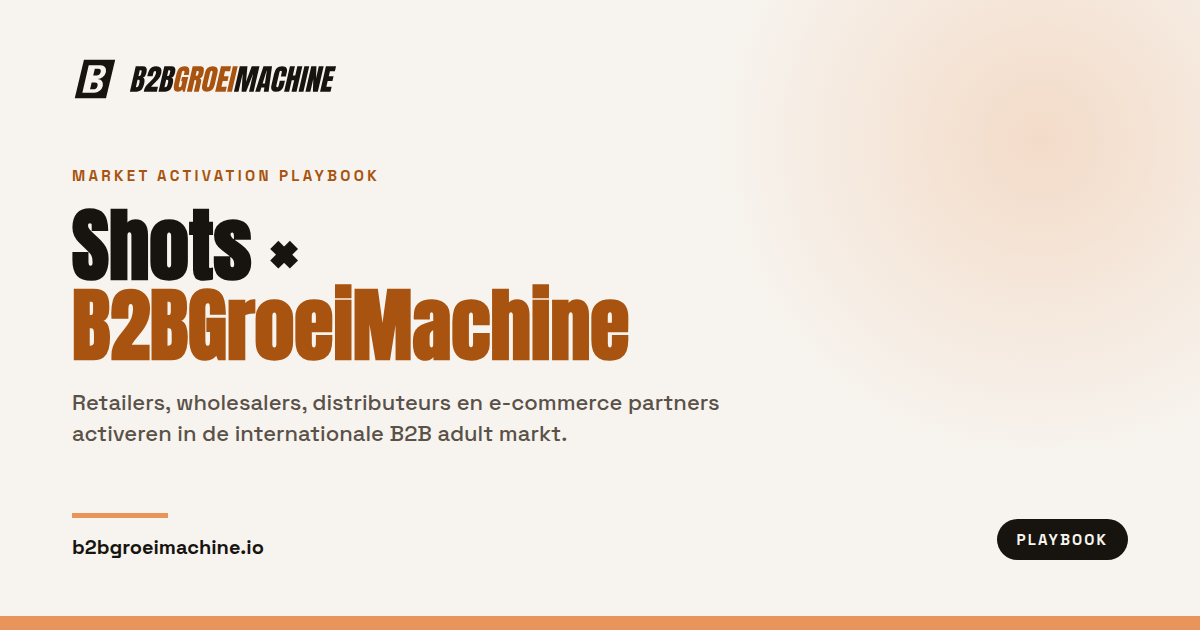
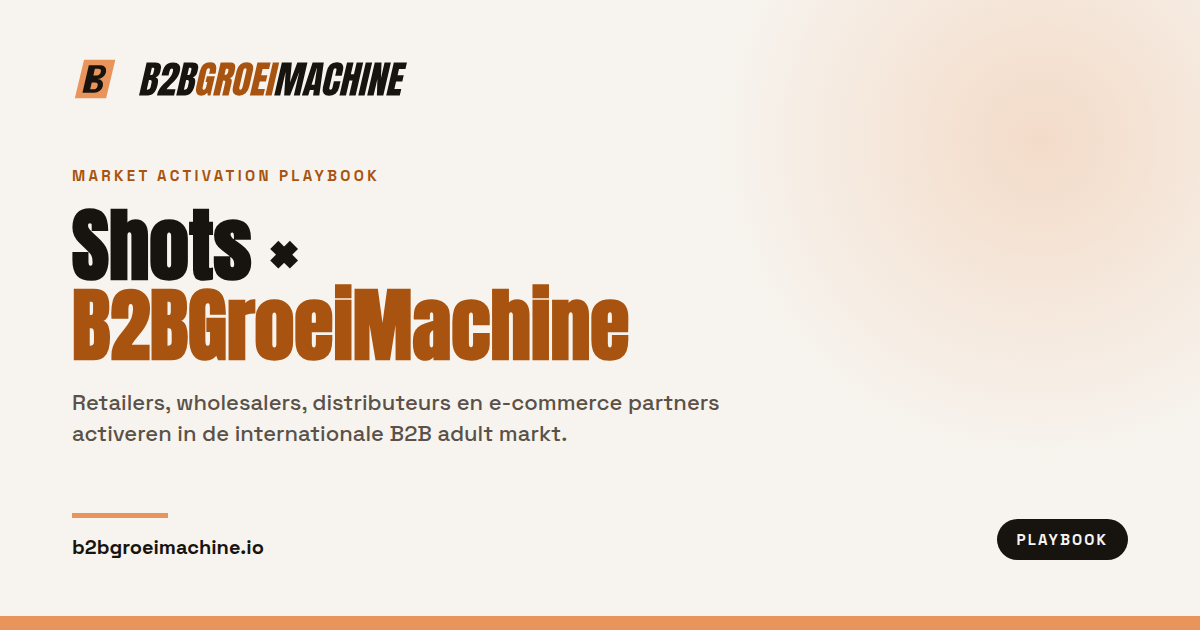
Merk-verhoudingen recht, en het merk als engine in het diagram
Op het presentatiebord stond het logo groot en geïsoleerd; in de navigatie op
tweeëntwintig pixels viel het om. Het blok was met honderd tegen zesenvijftig
eenheden bijna twee keer zo hoog als de kapitalen, en op de lichte balk was
het de inkt-variant, dus een zwarte baksteen naast de naam.

Nu staan de kapitalen op 72,7 van de honderd en blijft het vlak in beide
tonen merkoranje. Daarmee leest het als één merk in plaats van een blok met
een naam ernaast. Het onderscheid tussen licht en donker zit alleen nog in de
kleur van de naam.

Om te voorkomen dat dit bij een volgende ronde weer uit de pas loopt, staan de
vormen en verhoudingen nu in src/lib/merk.ts. Zowel de React-component als
scripts/build-merk.ts rekent daarmee, dus het logo in de site en de bestanden
in public/merk/ kunnen niet meer verschillen. Draaien met `npm run merk`.

Verder:

- de mono-variant was alleen de B; juist het schuine vlak viel weg. Het vlak
  en de letter zitten nu in één pad met evenodd, dus de B is een gat en het
  silhouet is gelijk aan de kleurversie. Voor stempel en borduur.
- het ENGINE-blokje in het hero-diagram had een generiek raster van vierkantjes
  en draagt nu het beeldmerk: de engine is het merk.
- de OG-kaarten zijn opnieuw gemaakt met de nieuwe verhouding.

Claude-Session: https://claude.ai/code/session_01UsrxZE9ri9eSeSHsNeCyCf

Changed region(s): [[0.0617, 0.0905, 0.3392, 0.181]]

diff --git a/src/components/Logo.tsx b/src/components/Logo.tsx
@@ -1,48 +1,27 @@
 /**
- * Het merk van B2B GroeiMachine.
+ * Het merk van B2B GroeiMachine als React-component.
  *
- * Beeldmerk "Het Blok": een schuin vlak met een B die met de hand is getekend,
- * geen letter uit een lettertype. Het woordmerk is Anton, omgezet naar
- * vectorvormen en onder dezelfde dertien graden gezet. Beide staan hier als
- * pad, zodat het logo nergens van een geïnstalleerd lettertype afhangt en op
- * elk formaat scherp blijft.
- *
- * De losse bestanden voor extern gebruik staan in `public/merk/`.
+ * De vormen en verhoudingen staan in `@/lib/merk`; dat is de enige bron, zodat
+ * dit logo en de losse bestanden in `public/merk/` gelijk blijven. Alles is
+ * pad, dus het merk hangt nergens van een geïnstalleerd lettertype af.
  */
-
-/** Het schuine vlak. */
-const BLOK = "M26,8 L94,8 L74,92 L6,92 Z";
-/** Hetzelfde vlak, maar aflopend. Met marge valt het merk weg op faviconformaat. */
-const BLOK_VOL = "M22,-2 L104,-2 L78,102 L-4,102 Z";
-/** De B: twee gelijke bogen op één stam, counters als halve stadions. */
-const LETTER =
-  "M32,20 H58 A15,15 0 0 1 58,50 A15,15 0 0 1 58,80 H32 Z " +
-  "M47,27.5 H54 A7.5,7.5 0 0 1 54,42.5 H47 Z " +
-  "M47,57.5 H54 A7.5,7.5 0 0 1 54,72.5 H47 Z";
-/** Optisch gecentreerd, niet wiskundig: de bogen rechts wegen zwaarder dan de stam. */
-const LETTER_PLAATSING = "skewX(-13) translate(9,0)";
-
-/** Woordmerk in drie delen, zodat GROEI zijn eigen kleur houdt. */
-const WOORD = {
-  b2b: "M27.10 0L3.81 0L23.65-85.94L46.94-85.94Q56.31-85.94 59.53-81.37Q62.75-76.81 60.33-66.31L59.46-62.55Q58.06-56.49 55.02-52.73Q51.98-48.97 47.27-47.80Q52.74-46.34 53.47-40.94Q54.20-35.55 52.41-27.78Q50.48-19.43 47.48-13.18Q44.47-6.93 39.57-3.47Q34.67 0 27.10 0M37.38-72.66L32.97-53.56L36.49-53.56Q38.88-53.56 39.99-55.42Q41.10-57.28 41.70-59.86L43.70-68.51Q44.65-72.66 40.99-72.66L37.38-72.66M25.81-15.14Q32.50-15.14 33.96-21.48L36.44-32.23Q37.29-35.89 36.68-38.01Q36.07-40.14 33.05-40.14L29.87-40.14L24.12-15.23Q25.17-15.14 25.81-15.14M95.46 0L50.88 0L51.83-4.10Q53.30-10.50 56.46-15.60Q59.61-20.70 63.75-25.07Q67.88-29.44 72.32-33.64Q76.63-37.74 80.68-42.07Q84.73-46.39 87.83-51.44Q90.92-56.49 92.38-62.79Q93.08-65.82 92.67-67.99Q92.27-70.17 89.44-70.17Q85.14-70.17 83.37-62.50L80.95-52L62.88-52Q63.09-53.12 63.35-54.54Q63.60-55.96 63.91-57.28Q66.05-66.55 69.50-73.02Q72.94-79.49 78.68-82.89Q84.42-86.28 93.41-86.28Q104.10-86.28 108.64-80.27Q113.19-74.27 110.62-63.13Q108.87-55.57 105.61-49.88Q102.34-44.19 98.04-39.53Q93.74-34.86 88.81-30.22Q85.32-26.95 81.97-23.54Q78.62-20.12 75.76-16.21L99.20-16.21L95.46 0M124.37 0L101.07 0L120.91-85.94L144.21-85.94Q153.58-85.94 156.80-81.37Q160.02-76.81 157.59-66.31L156.73-62.55Q155.33-56.49 152.29-52.73Q149.25-48.97 144.53-47.80Q150-46.34 150.74-40.94Q151.47-35.55 149.68-27.78Q147.75-19.43 144.74-13.18Q141.74-6.93 136.84-3.47Q131.93 0 124.37 0M134.65-72.66L130.24-53.56L133.75-53.56Q136.15-53.56 137.26-55.42Q138.37-57.28 138.97-59.86L140.96-68.51Q141.92-72.66 138.26-72.66L134.65-72.66M123.07-15.14Q129.76-15.14 131.23-21.48L133.71-32.23Q134.56-35.89 133.95-38.01Q133.34-40.14 130.31-40.14L127.14-40.14L121.39-15.23Q122.44-15.14 123.07-15.14",
-  groei: "M166.47 0.78Q148.06 0.78 154.15-25.59L162.71-62.65Q168.26-86.72 189.36-86.72Q198.05-86.72 201.88-83.23Q205.71-79.74 205.93-73.05Q206.14-66.36 203.92-56.74L187.12-56.74L188.88-64.36Q189.52-67.14 189.20-69.02Q188.88-70.90 186.49-70.90Q183.51-70.90 182.09-68.90Q180.68-66.89 180.13-64.50L170.51-22.85Q169.71-19.38 170.11-17.21Q170.51-15.04 173.15-15.04Q175.88-15.04 177.29-17.21Q178.69-19.38 179.52-22.95L182.35-35.21L177.76-35.21L181.18-50.05L202.18-50.05L190.63 0L183.74 0L182.48-7.23Q176.14 0.78 166.47 0.78M214.79 0L197.41 0L217.25-85.94L243.62-85.94Q250.21-85.94 252.89-82.93Q255.56-79.93 255.46-74.54Q255.37-69.14 253.69-61.87Q252.06-54.83 249.31-50.63Q246.56-46.44 241.26-44.82Q245.12-43.99 246.02-40.80Q246.91-37.60 245.74-32.52L238.23 0L221.29 0L229.06-33.64Q229.92-37.40 228.59-38.31Q227.26-39.21 223.85-39.21L214.79 0M231.06-70.02L227.38-54.10L231.53-54.10Q235.10-54.10 236.89-61.87Q238.05-66.89 237.63-68.46Q237.21-70.02 235.06-70.02L231.06-70.02M265.40 0.78Q255.09 0.78 251.09-5.44Q247.08-11.67 249.80-23.44L259.22-64.26Q261.77-75.29 268.48-81.01Q275.20-86.72 285.60-86.72Q296-86.72 300.07-81.01Q304.15-75.29 301.60-64.26L292.18-23.44Q289.46-11.67 282.58-5.44Q275.70 0.78 265.40 0.78M269.19-15.04Q273.10-15.04 274.85-22.61L284.53-64.55Q286-70.90 282.19-70.90Q277.89-70.90 276.39-64.40L266.72-22.51Q265.80-18.51 266.37-16.77Q266.95-15.04 269.19-15.04M329.20 0L293.70 0L313.54-85.94L347.92-85.94L344.08-69.34L327.19-69.34L323.32-52.59L339.53-52.59L335.80-36.43L319.59-36.43L315.05-16.75L333.07-16.75L329.20 0M350.68 0L334.08 0L353.92-85.94L370.52-85.94",
-  machine: "M373.05 0L357.52 0L377.36-85.94L403.53-85.94L398.66-33.54L417.94-85.94L444.35-85.94L424.51 0L408.79 0L423.08-61.91L398.93 0L383.50 0L387.34-61.91L373.05 0M446.48 0L429.79 0L457.93-85.94L487.08-85.94L475.39 0L459.13 0L461.11-13.87L450.76-13.87L446.48 0M468.51-71.29L455.15-27.59L462.96-27.59L469.29-71.29L468.51-71.29M500.50 0.78Q491.18 0.78 486.83-5.03Q482.48-10.84 484.90-21.29L494.05-60.94Q496.93-73.44 503.42-80.08Q509.91-86.72 521.09-86.72Q527.20-86.72 531.44-84.47Q535.68-82.23 537.39-77.76Q539.09-73.29 537.52-66.50L534.09-51.66L517-51.66L519.94-64.36Q520.83-68.21 520.16-69.56Q519.49-70.90 517.44-70.90Q515.05-70.90 513.82-69.17Q512.59-67.43 511.92-64.55L501.99-21.53Q501.17-17.97 501.88-16.50Q502.59-15.04 504.55-15.04Q506.74-15.04 508.06-16.85Q509.38-18.65 510.05-21.53L513.62-37.01L530.91-37.01L527.15-20.75Q524.54-9.42 517.65-4.32Q510.76 0.78 500.50 0.78M545.17 0L528.08 0L547.92-85.94L565.01-85.94L557.92-55.22L566.02-55.22L573.11-85.94L590.20-85.94L570.36 0L553.27 0L562.27-38.96L554.16-38.96L545.17 0M593.80 0L577.20 0L597.04-85.94L613.64-85.94L593.80 0M617.43 0L600.63 0L620.48-85.94L638.15-85.94L636.56-44.78L646.06-85.94L662.66-85.94L642.82 0L626.03 0L627.35-42.97L617.43 0M685.94 0L650.44 0L670.28-85.94L704.65-85.94L700.82-69.34L683.93-69.34L680.06-52.59L696.27-52.59L692.54-36.43L676.33-36.43L671.79-16.75L689.80-16.75",
-};
-/** Kader van het woordmerk, gemeten op de vormen hierboven. */
-const WOORD_VAK = { x0: 3.8, x1: 704.6, y0: -86.7, y1: 0.8 };
-
-const KLEUR = {
-  donker: { vlak: "#E8945A", letter: "#17140F", woord: "#F7F4EF", accent: "#E8945A" },
-  licht: { vlak: "#17140F", letter: "#F7F4EF", woord: "#17140F", accent: "#A85410" },
-} as const;
-
-type Toon = keyof typeof KLEUR;
+import {
+  BLOK,
+  BLOK_VOL,
+  LETTER,
+  LETTER_PLAATSING,
+  TONEN,
+  WOORD,
+  lockupMaten,
+  type Toon,
+} from "@/lib/merk";
 
 /**
  * Alleen het beeldmerk.
  *
- * `aflopend` laat het vlak tot de rand lopen; gebruik dat zodra het merk onder
- * de veertig pixels komt, anders verdwijnt het in zijn eigen witruimte.
+ * `aflopend` laat het vlak tot buiten het kader lopen; gebruik dat zodra het
+ * merk onder de veertig pixels komt, anders verdwijnt het in zijn eigen
+ * witruimte.
  */
 export function Merk({
   toon = "donker",
@@ -53,7 +32,7 @@ export function Merk({
   aflopend?: boolean;
   className?: string;
 }) {
-  const k = KLEUR[toon];
+  const k = TONEN[toon];
   return (
     <svg viewBox="0 0 100 100" className={className} role="img" aria-label="B2B GroeiMachine">
       <path d={aflopend ? BLOK_VOL : BLOK} fill={k.vlak} />
@@ -64,18 +43,16 @@ export function Merk({
   );
 }
 
-/** Het beeldmerk met de naam ernaast. De hoogte volgt uit de `className`. */
+/**
+ * Het beeldmerk met de naam ernaast. De hoogte volgt uit de `className`; op
+ * 22 pixels hoog zijn de kapitalen 16, wat in een navigatiebalk prettig leest.
+ */
 export function Logo({ toon = "donker", className }: { toon?: Toon; className?: string }) {
-  const k = KLEUR[toon];
-  const kapH = WOORD_VAK.y1 - WOORD_VAK.y0;
-  const s = 56 / kapH;
-  const gat = 26;
-  const wx = 100 + gat - WOORD_VAK.x0 * s;
-  const wy = 50 + 28 - WOORD_VAK.y1 * s;
-  const breedte = 100 + gat + (WOORD_VAK.x1 - WOORD_VAK.x0) * s;
+  const k = TONEN[toon];
+  const m = lockupMaten();
   return (
     <svg
-      viewBox={`0 0 ${breedte.toFixed(1)} 100`}
+      viewBox={`0 0 ${m.breedte.toFixed(1)} 100`}
       className={className}
       role="img"
       aria-label="B2B GroeiMachine"
@@ -84,7 +61,7 @@ export function Logo({ toon = "donker", className }: { toon?: Toon; className?: 
       <g transform={LETTER_PLAATSING}>
         <path d={LETTER} fill={k.letter} fillRule="evenodd" />
       </g>
-      <g transform={`translate(${wx.toFixed(2)},${wy.toFixed(2)}) scale(${s.toFixed(4)})`}>
+      <g transform={`translate(${m.x.toFixed(2)},${m.y.toFixed(2)}) scale(${m.schaal.toFixed(4)})`}>
         <path d={WOORD.b2b} fill={k.woord} />
         <path d={WOORD.groei} fill={k.accent} />
         <path d={WOORD.machine} fill={k.woord} />

diff --git a/src/lib/merk.ts b/src/lib/merk.ts
@@ -1,0 +1,71 @@
+/**
+ * De geometrie van het merk, als enige bron.
+ *
+ * Zowel `src/components/Logo.tsx` als `scripts/build-merk.ts` rekent hiermee,
+ * zodat het logo in de app en de losse bestanden in `public/merk/` niet uit
+ * elkaar kunnen lopen. Verander je hier iets, draai dan `npm run merk`.
+ *
+ * Beeldmerk "Het Blok": een schuin vlak met een B die met de hand is getekend,
+ * geen letter uit een lettertype. Het woordmerk is Anton, omgezet naar
+ * vectorvormen en onder dezelfde dertien graden gezet. Beide staan hier als
+ * pad, zodat het merk nergens van een geïnstalleerd lettertype afhangt.
+ */
+
+/** Het schuine vlak. */
+export const BLOK = "M26,8 L94,8 L74,92 L6,92 Z";
+/** Hetzelfde vlak, maar aflopend. Met marge valt het merk weg op faviconformaat. */
+export const BLOK_VOL = "M22,-2 L104,-2 L78,102 L-4,102 Z";
+/** De B: twee gelijke bogen op één stam, counters als halve stadions. */
+export const LETTER =
+  "M32,20 H58 A15,15 0 0 1 58,50 A15,15 0 0 1 58,80 H32 Z " +
+  "M47,27.5 H54 A7.5,7.5 0 0 1 54,42.5 H47 Z " +
+  "M47,57.5 H54 A7.5,7.5 0 0 1 54,72.5 H47 Z";
+/** Optisch gecentreerd, niet wiskundig: de bogen rechts wegen zwaarder dan de stam. */
+export const LETTER_PLAATSING = "skewX(-13) translate(9,0)";
+
+/** Woordmerk in drie delen, zodat GROEI zijn eigen kleur houdt. */
+export const WOORD = {
+  b2b:
+    "M27.1 0L3.8 0L23.7-85.9L46.9-85.9Q56.3-85.9 59.5-81.4Q62.8-76.8 60.3-66.3L59.5-62.5Q58.1-56.5 55-52.7Q52-49 47.3-47.8Q52.7-46.3 53.5-40.9Q54.2-35.5 52.4-27.8Q50.5-19.4 47.5-13.2Q44.5-6.9 39.6-3.5Q34.7 0 27.1 0M37.4-72.7L33-53.6L36.5-53.6Q38.9-53.6 40-55.4Q41.1-57.3 41.7-59.9L43.7-68.5Q44.7-72.7 41-72.7L37.4-72.7M25.8-15.1Q32.5-15.1 34-21.5L36.4-32.2Q37.3-35.9 36.7-38Q36.1-40.1 33.1-40.1L29.9-40.1L24.1-15.2Q25.2-15.1 25.8-15.1M95.5 0L50.9 0L51.8-4.1Q53.3-10.5 56.5-15.6Q59.6-20.7 63.8-25.1Q67.9-29.4 72.3-33.6Q76.6-37.7 80.7-42.1Q84.7-46.4 87.8-51.4Q90.9-56.5 92.4-62.8Q93.1-65.8 92.7-68Q92.3-70.2 89.4-70.2Q85.1-70.2 83.4-62.5L81-52L62.9-52Q63.1-53.1 63.4-54.5Q63.6-56 63.9-57.3Q66.1-66.5 69.5-73Q72.9-79.5 78.7-82.9Q84.4-86.3 93.4-86.3Q104.1-86.3 108.6-80.3Q113.2-74.3 110.6-63.1Q108.9-55.6 105.6-49.9Q102.3-44.2 98-39.5Q93.7-34.9 88.8-30.2Q85.3-26.9 82-23.5Q78.6-20.1 75.8-16.2L99.2-16.2L95.5 0M124.4 0L101.1 0L120.9-85.9L144.2-85.9Q153.6-85.9 156.8-81.4Q160-76.8 157.6-66.3L156.7-62.5Q155.3-56.5 152.3-52.7Q149.3-49 144.5-47.8Q150-46.3 150.7-40.9Q151.5-35.5 149.7-27.8Q147.8-19.4 144.7-13.2Q141.7-6.9 136.8-3.5Q131.9 0 124.4 0M134.7-72.7L130.2-53.6L133.8-53.6Q136.2-53.6 137.3-55.4Q138.4-57.3 139-59.9L141-68.5Q141.9-72.7 138.3-72.7L134.7-72.7M123.1-15.1Q129.8-15.1 131.2-21.5L133.7-32.2Q134.6-35.9 134-38Q133.3-40.1 130.3-40.1L127.1-40.1L121.4-15.2Q122.4-15.1 123.1-15.1",
+  groei:
+    "M166.5 0.8Q148.1 0.8 154.2-25.6L162.7-62.6Q168.3-86.7 189.4-86.7Q198.1-86.7 201.9-83.2Q205.7-79.7 205.9-73Q206.1-66.4 203.9-56.7L187.1-56.7L188.9-64.4Q189.5-67.1 189.2-69Q188.9-70.9 186.5-70.9Q183.5-70.9 182.1-68.9Q180.7-66.9 180.1-64.5L170.5-22.8Q169.7-19.4 170.1-17.2Q170.5-15 173.2-15Q175.9-15 177.3-17.2Q178.7-19.4 179.5-22.9L182.4-35.2L177.8-35.2L181.2-50L202.2-50L190.6 0L183.7 0L182.5-7.2Q176.1 0.8 166.5 0.8M214.8 0L197.4 0L217.3-85.9L243.6-85.9Q250.2-85.9 252.9-82.9Q255.6-79.9 255.5-74.5Q255.4-69.1 253.7-61.9Q252.1-54.8 249.3-50.6Q246.6-46.4 241.3-44.8Q245.1-44 246-40.8Q246.9-37.6 245.7-32.5L238.2 0L221.3 0L229.1-33.6Q229.9-37.4 228.6-38.3Q227.3-39.2 223.9-39.2L214.8 0M231.1-70L227.4-54.1L231.5-54.1Q235.1-54.1 236.9-61.9Q238.1-66.9 237.6-68.5Q237.2-70 235.1-70L231.1-70M265.4 0.8Q255.1 0.8 251.1-5.4Q247.1-11.7 249.8-23.4L259.2-64.3Q261.8-75.3 268.5-81Q275.2-86.7 285.6-86.7Q296-86.7 300.1-81Q304.2-75.3 301.6-64.3L292.2-23.4Q289.5-11.7 282.6-5.4Q275.7 0.8 265.4 0.8M269.2-15Q273.1-15 274.9-22.6L284.5-64.5Q286-70.9 282.2-70.9Q277.9-70.9 276.4-64.4L266.7-22.5Q265.8-18.5 266.4-16.8Q267-15 269.2-15M329.2 0L293.7 0L313.5-85.9L347.9-85.9L344.1-69.3L327.2-69.3L323.3-52.6L339.5-52.6L335.8-36.4L319.6-36.4L315.1-16.7L333.1-16.7L329.2 0M350.7 0L334.1 0L353.9-85.9L370.5-85.9",
+  machine:
+    "M373.1 0L357.5 0L377.4-85.9L403.5-85.9L398.7-33.5L417.9-85.9L444.4-85.9L424.5 0L408.8 0L423.1-61.9L398.9 0L383.5 0L387.3-61.9L373.1 0M446.5 0L429.8 0L457.9-85.9L487.1-85.9L475.4 0L459.1 0L461.1-13.9L450.8-13.9L446.5 0M468.5-71.3L455.2-27.6L463-27.6L469.3-71.3L468.5-71.3M500.5 0.8Q491.2 0.8 486.8-5Q482.5-10.8 484.9-21.3L494.1-60.9Q496.9-73.4 503.4-80.1Q509.9-86.7 521.1-86.7Q527.2-86.7 531.4-84.5Q535.7-82.2 537.4-77.8Q539.1-73.3 537.5-66.5L534.1-51.7L517-51.7L519.9-64.4Q520.8-68.2 520.2-69.6Q519.5-70.9 517.4-70.9Q515.1-70.9 513.8-69.2Q512.6-67.4 511.9-64.5L502-21.5Q501.2-18 501.9-16.5Q502.6-15 504.6-15Q506.7-15 508.1-16.8Q509.4-18.6 510.1-21.5L513.6-37L530.9-37L527.2-20.7Q524.5-9.4 517.7-4.3Q510.8 0.8 500.5 0.8M545.2 0L528.1 0L547.9-85.9L565-85.9L557.9-55.2L566-55.2L573.1-85.9L590.2-85.9L570.4 0L553.3 0L562.3-39L554.2-39L545.2 0M593.8 0L577.2 0L597-85.9L613.6-85.9L593.8 0M617.4 0L600.6 0L620.5-85.9L638.2-85.9L636.6-44.8L646.1-85.9L662.7-85.9L642.8 0L626 0L627.4-43L617.4 0M685.9 0L650.4 0L670.3-85.9L704.7-85.9L700.8-69.3L683.9-69.3L680.1-52.6L696.3-52.6L692.5-36.4L676.3-36.4L671.8-16.7L689.8-16.7",
+};
+
+/** Kader van het woordmerk, gemeten op de vormen in `WOORD`. */
+export const WOORD_VAK = { x0: 3.8, x1: 704.6, y0: -86.7, y1: 0.8 };
+
+/**
+ * Verhouding binnen de lockup.
+ *
+ * De kapitalen zijn bijna net zo hoog als het vlak. Eerder stonden ze op 56
+ * van de 100 en dan torent het blok boven de naam uit: in een navigatiebalk
+ * van rond de twintig pixels leest dat als een blok mét een naam ernaast in
+ * plaats van als één merk.
+ */
+export const KAPITAALHOOGTE = 72.7;
+export const TUSSENRUIMTE = 45.5;
+
+/**
+ * Kleuren per ondergrond. Het vlak blijft in beide gevallen merkoranje; een
+ * inktzwart blok werd op een lichte balk een baksteen naast de naam. Voor druk
+ * in één kleur staat er een aparte variant in `public/merk/`.
+ */
+export const TONEN = {
+  donker: { vlak: "#E8945A", letter: "#17140F", woord: "#F7F4EF", accent: "#E8945A" },
+  licht: { vlak: "#E8945A", letter: "#17140F", woord: "#17140F", accent: "#A85410" },
+} as const;
+
+export type Toon = keyof typeof TONEN;
+
+/** Plaatsing en schaal van het woordmerk naast het beeldmerk. */
+export function lockupMaten() {
+  const schaal = KAPITAALHOOGTE / (WOORD_VAK.y1 - WOORD_VAK.y0);
+  return {
+    schaal,
+    x: 100 + TUSSENRUIMTE - WOORD_VAK.x0 * schaal,
+    y: 50 + KAPITAALHOOGTE / 2 - WOORD_VAK.y1 * schaal,
+    breedte: 100 + TUSSENRUIMTE + (WOORD_VAK.x1 - WOORD_VAK.x0) * schaal,
+  };
+}

diff --git a/scripts/build-merk.ts b/scripts/build-merk.ts
@@ -1,0 +1,105 @@
+/**
+ * Schrijft de losse merkbestanden naar `public/merk/` en `public/favicon.svg`.
+ *
+ * Rekent met dezelfde module als de React-component, zodat de bestanden voor
+ * extern gebruik niet uit de pas kunnen lopen met het logo in de site. Draaien
+ * na elke wijziging in `src/lib/merk.ts`:
+ *
+ *     npm run merk
+ *
+ * De favicon.ico en de apple-touch-icon zijn bitmaps en worden hier niet
+ * gemaakt; die staan los in `public/` en hoeven alleen bij een vormwijziging
+ * opnieuw geëxporteerd te worden.
+ */
+import { mkdirSync, writeFileSync } from "node:fs";
+import { dirname, resolve } from "node:path";
+import { fileURLToPath } from "node:url";
+import {
+  BLOK,
+  BLOK_VOL,
+  LETTER,
+  LETTER_PLAATSING,
+  TONEN,
+  WOORD,
+  WOORD_VAK,
+  KAPITAALHOOGTE,
+  TUSSENRUIMTE,
+  lockupMaten,
+} from "../src/lib/merk";
+
+const WORTEL = resolve(dirname(fileURLToPath(import.meta.url)), "..");
+const UITVOER = resolve(WORTEL, "public/merk");
+
+const KOP =
+  "<!-- B2B GroeiMachine. Beeldmerk en woordmerk zijn vectorvormen, geen lettertype. " +
+  "Gegenereerd met `npm run merk` uit src/lib/merk.ts. -->";
+
+type Kleuren = { vlak: string; letter: string; woord: string; accent: string };
+
+const beeldmerk = (k: Pick<Kleuren, "vlak" | "letter">, aflopend = false) =>
+  `<path d="${aflopend ? BLOK_VOL : BLOK}" fill="${k.vlak}"/>` +
+  `<g transform="${LETTER_PLAATSING}"><path fill="${k.letter}" fill-rule="evenodd" d="${LETTER}"/></g>`;
+
+const woordmerk = (k: Pick<Kleuren, "woord" | "accent">, x: number, y: number, s: number) =>
+  `<g transform="translate(${x.toFixed(2)},${y.toFixed(2)}) scale(${s.toFixed(4)})">` +
+  `<path fill="${k.woord}" d="${WOORD.b2b}"/>` +
+  `<path fill="${k.accent}" d="${WOORD.groei}"/>` +
+  `<path fill="${k.woord}" d="${WOORD.machine}"/></g>`;
+
+function schrijf(naam: string, viewBox: string, inhoud: string, hoogte: number) {
+  const [, , vb, vh] = viewBox.split(" ").map(Number);
+  const svg =
+    `<svg xmlns="http://www.w3.org/2000/svg" viewBox="${viewBox}" ` +
+    `width="${Math.round((hoogte * vb) / vh)}" height="${hoogte}" ` +
+    `role="img" aria-label="B2B GroeiMachine">\n${KOP}\n  ${inhoud}\n</svg>\n`;
+  writeFileSync(resolve(UITVOER, naam), svg);
+  console.log(`geschreven: public/merk/${naam}`);
+  return svg;
+}
+
+mkdirSync(UITVOER, { recursive: true });
+
+// Beeldmerk los.
+schrijf("logo-merk.svg", "0 0 100 100", beeldmerk(TONEN.donker), 512);
+schrijf("logo-merk-op-wit.svg", "0 0 100 100", beeldmerk(TONEN.licht), 512);
+// Eén kleur, voor stempel, borduur en druk waar geen tweede kleur in zit. Het
+// vlak en de B zitten in één pad met evenodd, zodat de letter een gat is in
+// plaats van een tweede kleur. Het vlak staat hier vooraf tegengesteld
+// vervormd, zodat het na de skew van de groep weer op BLOK uitkomt.
+const BLOK_VOOR_SKEW = "M18.85,8 L86.85,8 L86.24,92 L18.24,92 Z";
+schrijf(
+  "logo-merk-mono.svg",
+  "0 0 100 100",
+  `<g transform="${LETTER_PLAATSING}"><path fill="#17140F" fill-rule="evenodd" ` +
+    `d="${BLOK_VOOR_SKEW} ${LETTER}"/></g>`,
+  512,
+);
+
+// Favicon: het vlak loopt tot buiten het kader, anders valt het merk weg.
+const favicon = schrijf("favicon.svg", "0 0 100 100", beeldmerk(TONEN.donker, true), 512);
+writeFileSync(resolve(WORTEL, "public/favicon.svg"), favicon);
+console.log("geschreven: public/favicon.svg");
+
+// Lockups.
+const m = lockupMaten();
+const vbLock = `0 0 ${m.breedte.toFixed(1)} 100`;
+schrijf("logo-lockup.svg", vbLock, beeldmerk(TONEN.donker) + woordmerk(TONEN.donker, m.x, m.y, m.schaal), 128);
+schrijf("logo-lockup-op-wit.svg", vbLock, beeldmerk(TONEN.licht) + woordmerk(TONEN.licht, m.x, m.y, m.schaal), 128);
+
+// Gestapeld: het woordmerk bepaalt de breedte, het blok staat er gecentreerd boven.
+const BREED = 240;
+const s2 = BREED / (WOORD_VAK.x1 - WOORD_VAK.x0);
+const kapH = (WOORD_VAK.y1 - WOORD_VAK.y0) * s2;
+const gat = 22;
+const vbStapel = `0 0 ${BREED} ${(100 + gat + kapH).toFixed(1)}`;
+for (const [naam, toon] of [["logo-gestapeld.svg", TONEN.donker], ["logo-gestapeld-op-wit.svg", TONEN.licht]] as const) {
+  schrijf(
+    naam,
+    vbStapel,
+    `<g transform="translate(${(BREED - 100) / 2},0)">${beeldmerk(toon)}</g>` +
+      woordmerk(toon, -WOORD_VAK.x0 * s2, 100 + gat - WOORD_VAK.y0 * s2 - kapH, s2),
+    200,
+  );
+}
+
+console.log(`\nlockup: ${m.breedte.toFixed(1)} bij 100, kapitalen ${KAPITAALHOOGTE}, tussenruimte ${TUSSENRUIMTE}`);

diff --git a/src/components/home-v2/SignaalDiagram.tsx b/src/components/home-v2/SignaalDiagram.tsx
@@ -1,5 +1,6 @@
 import { memo } from "react";
 import { fase } from "@/hooks/useScrollProgress";
+import { BLOK, LETTER, LETTER_PLAATSING, TONEN } from "@/lib/merk";
 
 /**
  * De hero-visual: het systeem in één beeld.
@@ -206,16 +207,12 @@ function SignaalDiagramBase({ progress = 1 }: { progress?: number }) {
             className="fill-[#1D1913] stroke-[#E8945A]"
             strokeWidth="1.25"
           />
-          <g transform={`translate(${ENGINE.x + ENGINE.w / 2 - 11} ${ENGINE.y + 14})`}>
-            {[
-              [0, 0],
-              [11, 0],
-              [5.5, 9],
-              [0, 18],
-              [11, 18],
-            ].map(([dx, dy]) => (
-              <rect key={`${dx}-${dy}`} x={dx} y={dy} width="8" height="8" rx="1" className="fill-[#E8945A]" />
-            ))}
+          {/* Het merk zelf als de engine: dit is waar het systeem zit. */}
+          <g transform={`translate(${ENGINE.x + ENGINE.w / 2 - 13} ${ENGINE.y + 10}) scale(0.26)`}>
+            <path d={BLOK} fill={TONEN.donker.vlak} />
+            <g transform={LETTER_PLAATSING}>
+              <path d={LETTER} fill={TONEN.donker.letter} fillRule="evenodd" />
+            </g>
           </g>
           <text
             x={ENGINE.x + ENGINE.w / 2}

diff --git a/src/components/v2/Nav.tsx b/src/components/v2/Nav.tsx
@@ -139,7 +139,7 @@ export function Nav() {
     >
       <Container className="flex items-center justify-between gap-7 py-3.5">
         <Link to="/" aria-label="B2B Groeimachine, home" className="shrink-0">
-          <Logo toon="licht" className="h-[26px] w-auto" />
+          <Logo toon="licht" className="h-[22px] w-auto" />
         </Link>
 
         <div className="hidden items-center gap-7 lg:flex">
